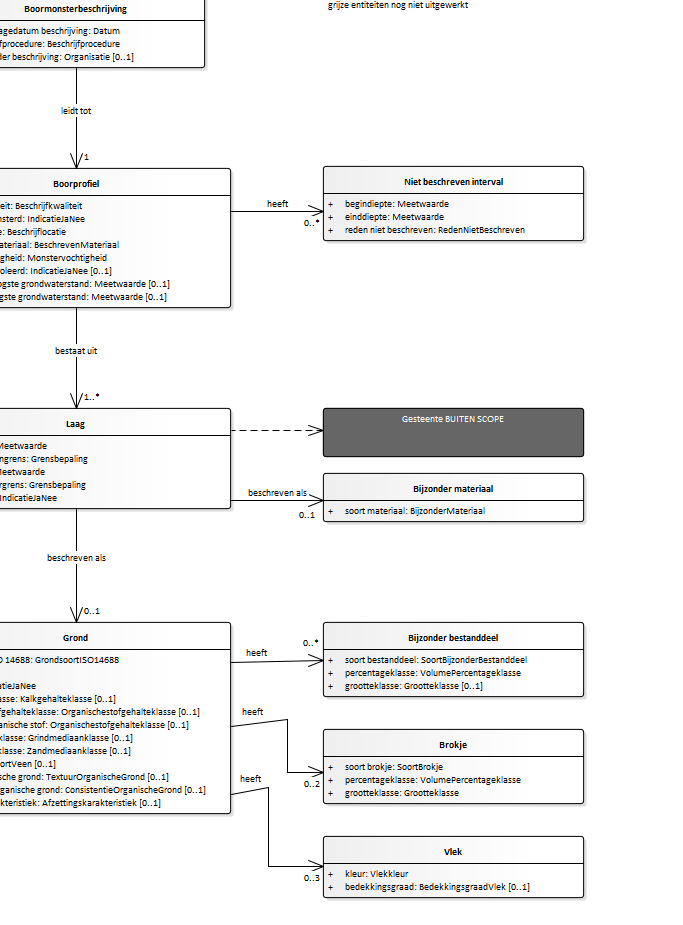
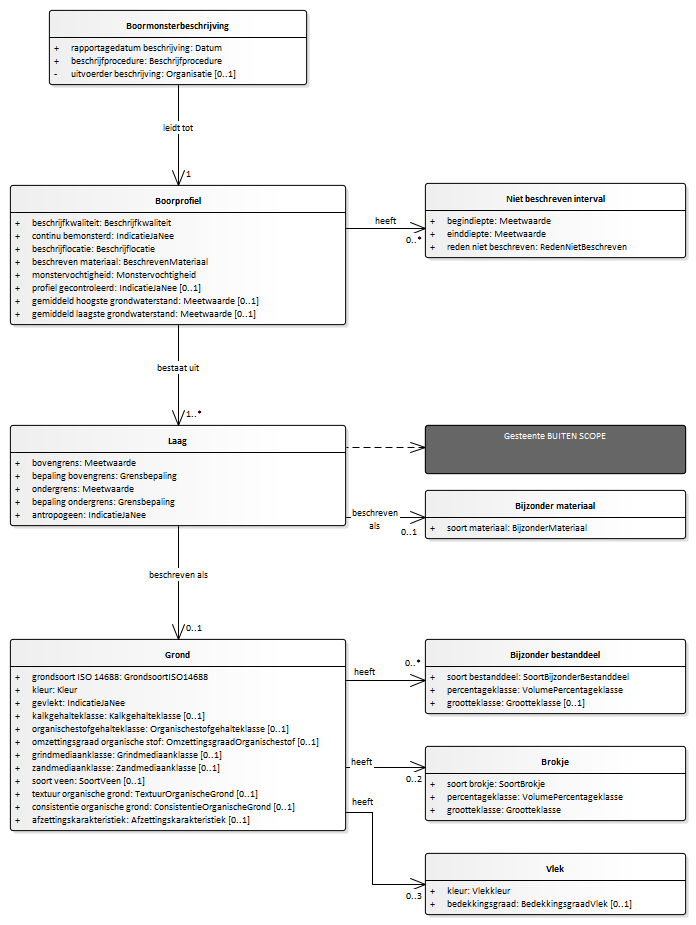
Conceptualmodel-ToegepastgeotechnischbooronderzoekBHR-AGconceptueel-0.1-1-20200401-20200527-211142

diff --git a/data/BHR-AG-cat.msword.html b/data/BHR-AG-cat.msword.html
@@ -13,7 +13,7 @@
    <body>
       <p>Conceptual model/Toegepast geotechnisch booronderzoek (BHR-AG) conceptueel/20200401</p>
       <p>Imvertor: 1.59.4</p>
-      <p>Model release: Conceptualmodel-ToegepastgeotechnischbooronderzoekBHR-AGconceptueel-0.1-1-20200401-20200520-001218</p>
+      <p>Model release: Conceptualmodel-ToegepastgeotechnischbooronderzoekBHR-AGconceptueel-0.1-1-20200401-20200527-211142</p>
       <hr>
       <section>
          <h1>Artikel 1 Definitie van registratieobject, entiteiten en attributen</h1>
@@ -70,15 +70,15 @@
             <h2>Het domeinmodel</h2>
             <section id="">
                <div class="imageinfo overview"><img src="Images/EAID_2BEE77B3_B290_450f_B2C3_248D2CDF62D0.png" usemap="#imagemap-EAID_2BEE77B3_B290_450f_B2C3_248D2CDF62D0" alt="Diagram "><map name="imagemap-EAID_2BEE77B3_B290_450f_B2C3_248D2CDF62D0">
-                     <area shape="rect" alt="Vlek" coords="323,836,584,898" href="#graph_EAID_5CBC68BC_887F_481b_919F_50E6DDBAA8C2">
-                     <area shape="rect" alt="Brokje" coords="323,729,584,804" href="#graph_EAID_D926F001_75F7_427d_9A13_9B67062086F4">
-                     <area shape="rect" alt="Bijzonder bestanddeel" coords="323,622,584,697" href="#graph_EAID_3879AC64_BE06_4f16_8D2C_7A9036DEBFEA">
-                     <area shape="rect" alt="Bijzonder materiaal" coords="323,473,584,522" href="#graph_EAID_1372ED4A_302E_492a_965B_49C68209085C">
-                     <area shape="rect" alt="Niet beschreven interval" coords="323,166,584,241" href="#graph_EAID_5661F19B_4FF7_4bbf_BCE0_11489C377552">
-                     <area shape="rect" alt="Grond" coords="-79,622,231,814" href="#graph_EAID_C8EE2C52_C5B2_420f_8A6B_5DC3D66481B1">
-                     <area shape="rect" alt="Laag" coords="-79,408,231,509" href="#graph_EAID_20CDA08D_E15D_448d_BE07_575D49BAD77C">
-                     <area shape="rect" alt="Boormonsterbeschrijving" coords="-53,-7,205,68" href="#graph_EAID_48398FD1_5301_4bf7_8A18_186683D55ECC">
-                     <area shape="rect" alt="Boorprofiel" coords="-79,168,231,308" href="#graph_EAID_E0BD3703_8FA5_483a_A6C2_8DF1B9DBE04C"></map><p><b>Domeinmodel toegepast geologisch booronderzoek - Boormonsterbeschrijving</b></p>
+                     <area shape="rect" alt="Vlek" coords="425,853,686,915" href="#graph_EAID_5CBC68BC_887F_481b_919F_50E6DDBAA8C2">
+                     <area shape="rect" alt="Brokje" coords="425,746,686,821" href="#graph_EAID_D926F001_75F7_427d_9A13_9B67062086F4">
+                     <area shape="rect" alt="Bijzonder bestanddeel" coords="425,639,686,714" href="#graph_EAID_3879AC64_BE06_4f16_8D2C_7A9036DEBFEA">
+                     <area shape="rect" alt="Bijzonder materiaal" coords="425,490,686,539" href="#graph_EAID_1372ED4A_302E_492a_965B_49C68209085C">
+                     <area shape="rect" alt="Niet beschreven interval" coords="425,183,686,258" href="#graph_EAID_5661F19B_4FF7_4bbf_BCE0_11489C377552">
+                     <area shape="rect" alt="Grond" coords="10,639,346,831" href="#graph_EAID_C8EE2C52_C5B2_420f_8A6B_5DC3D66481B1">
+                     <area shape="rect" alt="Laag" coords="10,425,346,526" href="#graph_EAID_20CDA08D_E15D_448d_BE07_575D49BAD77C">
+                     <area shape="rect" alt="Boormonsterbeschrijving" coords="49,10,307,85" href="#graph_EAID_48398FD1_5301_4bf7_8A18_186683D55ECC">
+                     <area shape="rect" alt="Boorprofiel" coords="10,185,346,325" href="#graph_EAID_E0BD3703_8FA5_483a_A6C2_8DF1B9DBE04C"></map><p><b>Domeinmodel toegepast geologisch booronderzoek - Boormonsterbeschrijving</b></p>
                </div>
             </section>
          </section>
@@ -150,7 +150,7 @@
                            </tr>
                            <tr>
                               <th>&nbsp;&nbsp;Waardebereik</th>
-                              <td>1 januari 1980 tot heden</td>
+                              <td>???? tot heden</td>
                            </tr>
                         </tbody>
                      </table>
@@ -670,7 +670,9 @@
                            </tr>
                            <tr>
                               <th>&nbsp;&nbsp;Naam</th>
-                              <td>Meetwaarde 2.2</td>
+                              <td>Meetwaarde 
+                                 2.2 in machten
+                              </td>
                            </tr>
                            <tr>
                               <th>&nbsp;&nbsp;Type</th>
@@ -743,7 +745,9 @@
                            </tr>
                            <tr>
                               <th>&nbsp;&nbsp;Naam</th>
-                              <td>Meetwaarde 2.2</td>
+                              <td>Meetwaarde 
+                                 2.2 in machten
+                              </td>
                            </tr>
                            <tr>
                               <th>&nbsp;&nbsp;Type</th>
@@ -867,7 +871,9 @@
                            </tr>
                            <tr>
                               <th>&nbsp;&nbsp;Naam</th>
-                              <td>Meetwaarde 3.2</td>
+                              <td>Meetwaarde 
+                                 3.2 in machten
+                              </td>
                            </tr>
                            <tr>
                               <th>&nbsp;&nbsp;Type</th>
@@ -970,7 +976,9 @@
                            </tr>
                            <tr>
                               <th>&nbsp;&nbsp;Naam</th>
-                              <td>Meetwaarde 3.2</td>
+                              <td>Meetwaarde 
+                                 3.2 in machten
+                              </td>
                            </tr>
                            <tr>
                               <th>&nbsp;&nbsp;Type</th>
@@ -1191,10 +1199,10 @@
                </section><a class="anchor" id="graph_EAID_C8EE2C52_C5B2_420f_8A6B_5DC3D66481B1"></a><a class="anchor" id="global_class_Model_Grond"></a><section id="global_class_Model_Grond">
                   <h3>   Grond</h3>
                   <div class="imageinfo "><img src="Images/EAID_F06BCD69_2A9A_4c9b_A602_A07B1622CFDD.png" usemap="#imagemap-EAID_F06BCD69_2A9A_4c9b_A602_A07B1622CFDD" alt="Diagram "><map name="imagemap-EAID_F06BCD69_2A9A_4c9b_A602_A07B1622CFDD">
-                        <area shape="rect" alt="Vlek" coords="422,218,634,298" href="#graph_EAID_5CBC68BC_887F_481b_919F_50E6DDBAA8C2">
-                        <area shape="rect" alt="Bijzonder bestanddeel" coords="422,-22,631,58" href="#graph_EAID_3879AC64_BE06_4f16_8D2C_7A9036DEBFEA">
-                        <area shape="rect" alt="Brokje" coords="422,98,625,178" href="#graph_EAID_D926F001_75F7_427d_9A13_9B67062086F4">
-                        <area shape="rect" alt="Grond" coords="-27,-22,295,170" href="#graph_EAID_C8EE2C52_C5B2_420f_8A6B_5DC3D66481B1"></map><p><b></b></p>
+                        <area shape="rect" alt="Vlek" coords="476,250,688,330" href="#graph_EAID_5CBC68BC_887F_481b_919F_50E6DDBAA8C2">
+                        <area shape="rect" alt="Bijzonder bestanddeel" coords="476,10,685,90" href="#graph_EAID_3879AC64_BE06_4f16_8D2C_7A9036DEBFEA">
+                        <area shape="rect" alt="Brokje" coords="476,130,679,210" href="#graph_EAID_D926F001_75F7_427d_9A13_9B67062086F4">
+                        <area shape="rect" alt="Grond" coords="10,10,349,202" href="#graph_EAID_C8EE2C52_C5B2_420f_8A6B_5DC3D66481B1"></map><p><b></b></p>
                   </div>
                   <table style="width: 100%;">
                      <colgroup style="width: 30%;"></colgroup>
@@ -1375,7 +1383,7 @@
                               <td>
                                  
                                  <p>Het voorkomen van vlekken is een aanwijzing voor verandering van de chemische samenstelling
-                                    van de grond na afzetting van het sediment. 
+                                    of gesteldheid van de grond na afzetting.
                                  </p>
                                  
                               </td>
@@ -1429,7 +1437,7 @@
                                  <p>Het hangt van de aard van de opdracht af of het gegeven is vastgelegd.<br clear="none">
                                     Het kalkgehalte wordt geschat naar de mate van opbruisen met verdund zoutzuur (10
                                     % HCl). Het  kalkgehalte wordt niet bepaald als de grond is geclassificeerd als een
-                                    zeer grove grond of als een organische grond. 
+                                    zeer grove grond. 
                                  </p>
                                  
                               </td>
@@ -1491,8 +1499,8 @@
                         </tbody>
                      </table>
                      
-                  </section><a class="anchor" id="detail_attribute_Model_Grond_omzettingorganischestof"></a><section id="detail_attribute_Model_Grond_omzettingorganischestof">
-                     <h4>  omzetting organische stof</h4>
+                  </section><a class="anchor" id="detail_attribute_Model_Grond_omzettingsgraadorganischestof"></a><section id="detail_attribute_Model_Grond_omzettingsgraadorganischestof">
+                     <h4>  omzettingsgraad organische stof</h4>
                      
                      <table style="width: 100%;">
                         <colgroup style="width: 30%;"></colgroup>
@@ -1526,7 +1534,7 @@
                            </tr>
                            <tr>
                               <th>&nbsp;&nbsp;Naam</th>
-                              <td><a class="link" href="#detail_class_Model_Organischestofgehalteklasse">Organischestofgehalteklasse</a></td>
+                              <td><a class="link" href="#detail_class_Model_OmzettingsgraadOrganischestof">OmzettingsgraadOrganischestof</a></td>
                            </tr>
                            <tr>
                               <th>&nbsp;&nbsp;Type</th>
@@ -1845,7 +1853,7 @@
                               <td>
                                  
                                  <p>De typering van het sediment waaruit de grond bestaat naar milieu van afzetting voor
-                                    zover dat vanuit geotechnisch perspectief relevant is.
+                                    zover dat vanuit toegepast geologisch perspectief relevant is.
                                  </p>
                                  
                               </td>
@@ -1906,7 +1914,7 @@
                            <td>
                               
                               <p>Een bestanddeel dat uit materiaal bestaat dat niet tot een grondsoort wordt gerekend
-                                 en niet bepalend is voor de geotechnische eigenschappen van de grond.
+                                 en niet bepalend is voor de algemene eigenschappen van de grond.
                               </p>
                               
                            </td>
@@ -1917,8 +1925,8 @@
                               
                               <p>Onder NEN-EN-ISO 14688 moeten bijzondere bestanddelen worden beschreven wanneer ze
                                  belangrijk zijn voor het herleiden van de oorsprong van de grond of wanneer ze de
-                                 geotechnische eigenschappen van de grond kunnen beïnvloeden. Bijzondere bestanddelen
-                                 hebben gewoonlijk of een natuurlijke of een antropogene herkomst maar in enkele gevallen
+                                 algemene eigenschappen van de grond kunnen beïnvloeden. Bijzondere bestanddelen hebben
+                                 gewoonlijk of een natuurlijke of een antropogene herkomst maar in enkele gevallen
                                  is beide mogelijk. 
                               </p>
                               
@@ -2026,11 +2034,6 @@
                                  
                                  <p>De grootte van een deeltje uitgedrukt in een klasse.</p>
                                  
-                                 <p>-Toelichting--
-                                    De grootte van bijzondere bestanddelen wordt vastgelegd, wanneer de deeltjes groter
-                                    zijn dan 2 mm.
-                                 </p>
-                                 
                               </td>
                            </tr>
                            <tr>
@@ -2052,6 +2055,16 @@
                            <tr>
                               <th>&nbsp;&nbsp;Type</th>
                               <td>Waardelijst uitbreidbaar</td>
+                           </tr>
+                           <tr>
+                              <th>Toelichting</th>
+                              <td>
+                                 
+                                 <p>De grootte van bijzondere bestanddelen wordt vastgelegd, wanneer de deeltjes groter
+                                    zijn dan 2 mm.
+                                 </p>
+                                 
+                              </td>
                            </tr>
                         </tbody>
                      </table>
@@ -2394,7 +2407,9 @@
                            </tr>
                            <tr>
                               <th>&nbsp;&nbsp;Naam</th>
-                              <td>Meetwaarde 3.2</td>
+                              <td>Meetwaarde 
+                                 3.2 in machten
+                              </td>
                            </tr>
                            <tr>
                               <th>&nbsp;&nbsp;Type</th>
@@ -2406,7 +2421,7 @@
                            </tr>
                            <tr>
                               <th>&nbsp;&nbsp;Waardebereik</th>
-                              <td>0 tot 150</td>
+                              <td>0 tot 300</td>
                            </tr>
                            <tr>
                               <th>Toelichting</th>
@@ -2455,7 +2470,9 @@
                            </tr>
                            <tr>
                               <th>&nbsp;&nbsp;Naam</th>
-                              <td>Meetwaarde 3.2</td>
+                              <td>Meetwaarde 
+                                 3.2 in machten
+                              </td>
                            </tr>
                            <tr>
                               <th>&nbsp;&nbsp;Type</th>
@@ -2467,7 +2484,7 @@
                            </tr>
                            <tr>
                               <th>&nbsp;&nbsp;Waardebereik</th>
-                              <td>0 tot 150</td>
+                              <td>0 tot 300</td>
                            </tr>
                            <tr>
                               <th>Regels</th>
@@ -2539,9 +2556,7 @@
                   <tr>
                      <td>
                         
-                        <p>De lijst met de afzettingskarakteristieken vanuit geotechnisch en geohydrologisch
-                           perspectief.
-                        </p>
+                        <p>De lijst met de afzettingskarakteristieken vanuit toegepast geologisch perspectief.</p>
                         
                      </td>
                   </tr>
@@ -2954,14 +2969,12 @@
                      <th>Omschrijving</th>
                   </tr>
                   <tr>
-                     <td>ISO14688d1v2019c2020</td>
+                     <td>ISO14688d1v2019c2020plus</td>
                      <td>
                         
-                        <p>NEN-EN-ISO 14688-1:2019+C:2020 <em>Geotechnisch onderzoek en beproeving – Identificatie en classificatie van grond –
-                              Deel1: Identificatie en beschrijving (incl. Nederlandse bijlage:2019)</em>. Een door de NEN voor Nederland vastgestelde norm t.b.v. het identificeren van onverharde
-                           grondmonsters voor geotechniek gebaseerd op de ISO norm. De norm is vastgesteld in
-                           september 2013 en is de vervanger voor de NEN 5104. De versie uit 2019 is een herziening.
-                           In 2020 zijn correcties opgenomen.
+                        <p>De procedure voor het beschrijven van grondmonsters conformeert zicht aan de NEN-EN-ISO
+                           14688-1:2019+C:2020 <em>Geotechnisch onderzoek en beproeving – Identificatie en classificatie van grond –
+                              Deel1: Identificatie en beschrijving (incl. Nederlandse bijlage:2019)</em>, en is op onderdelen specifieker gemaakt voor basis booronderzoek.
                         </p>
                         
                      </td>
@@ -3190,7 +3203,7 @@
                         
                         <p>Antropogeen materiaal: bouw- en sloopafval, een mengsel van stenige materialen die
                            door de mens gemaakt of bewerkt zijn met daarin ook niet-stenig materiaal  zoals asbest,
-                           asfalt, glas, metaal of plastic. 
+                           asfalt, metaal of plastic. 
                         </p>
                         
                      </td>
@@ -3201,8 +3214,8 @@
                         
                         <p>Antropogeen materiaal: bouw- en sloopafval, een mengsel van louter stenige materialen
                            die door de mens gemaakt of bewerkt zijn, waarin geen materialen als asbest, asfalt,
-                           glas, metaal of plastic voorkomen. Soilmix, een mengsel van de grond ter plaatse met
-                           materiaal als cement of waterglas, wordt tot de stenig materialen gerekend.
+                           metaal of plastic voorkomen. Soilmix, een mengsel van de grond ter plaatse met materiaal
+                           als cement of waterglas, wordt tot de stenig materialen gerekend.
                         </p>
                         
                      </td>
@@ -3892,21 +3905,21 @@
                      </td>
                   </tr>
                   <tr>
-                     <td>kleiMetKeien</td>
-                     <td>
-                        
-                        <p>Fijne minerale grond die zich gedraagt als klei, keien bevat tot een maximum van 30%
-                           en voor een niet nader bepaald deel uit ander zeer grof en grof materiaal bestaat.
-                        </p>
-                        
-                     </td>
-                  </tr>
-                  <tr>
                      <td>sterkZandigSiltMetGrind</td>
                      <td>
                         
                         <p>Fijne minerale grond die zich gedraagt als silt, goed zichtbaar en duidelijk voelbaar
                            zand en enkele grindkorrels bevat.
+                        </p>
+                        
+                     </td>
+                  </tr>
+                  <tr>
+                     <td>kleiMetKeien</td>
+                     <td>
+                        
+                        <p>Fijne minerale grond die zich gedraagt als klei, keien bevat tot een maximum van 30%
+                           en voor een niet nader bepaald deel uit ander zeer grof en grof materiaal bestaat.
                         </p>
                         
                      </td>
@@ -4837,8 +4850,8 @@
             </table>
             
          </section>
-         <section id="detail_class_Model_OmzettingOrganischestof">
-            <h3>  OmzettingOrganischestof</h3>
+         <section id="detail_class_Model_OmzettingsgraadOrganischestof">
+            <h3>  OmzettingsgraadOrganischestof</h3>
             
             <table style="width: 100%;" class="list">
                <colgroup></colgroup>
@@ -5187,7 +5200,7 @@
                         
                         <p>Antropogeen bestanddeel: bouw- en sloopafval, een mengsel van louter stenige materialen
                            die door de mens gemaakt of bewerkt zijn, waarin geen materialen als asbest, asfalt,
-                           glas, metaal of of plastic voorkomen.
+                           metaal of plastic voorkomen.
                         </p>
                         
                      </td>
@@ -5646,7 +5659,7 @@
                      <td>
                         
                         <p>De vlekken zijn geel tot lichtgeel. Gelige vlekken wijzen op concentraties op sulfaten,
-                           zoals in kattenklei.
+                           zoals in katteklei.
                         </p>
                         
                      </td>
@@ -5665,7 +5678,7 @@
                         
                         <p>De vlekken zijn grijsblauw tot zwart. Grijsblauw tot zwarte vlekken in kleiige afzettingen
                            wijzen op concentraties organische stof (verstikte/anoxisch vergane plantenresten,
-                           humus, zeer fijne verkoolde plantenresten) die oude bodemniveaus aangeven.
+                           humus, zeer fijne verkoolde plantenresten) die begraven bodemniveaus aangeven.
                         </p>
                         
                      </td>
@@ -5728,8 +5741,8 @@
                      <td>zeerVeel</td>
                      <td>
                         
-                        <p>Er komt veel voor en dat betekent dat het aandeel in het volume tussen 15 en 50 %
-                           is.
+                        <p>Er komt zeer veel voor en dat betekent dat het aandeel in het volume tussen 15 en
+                           50 % is.
                         </p>
                         
                      </td>
